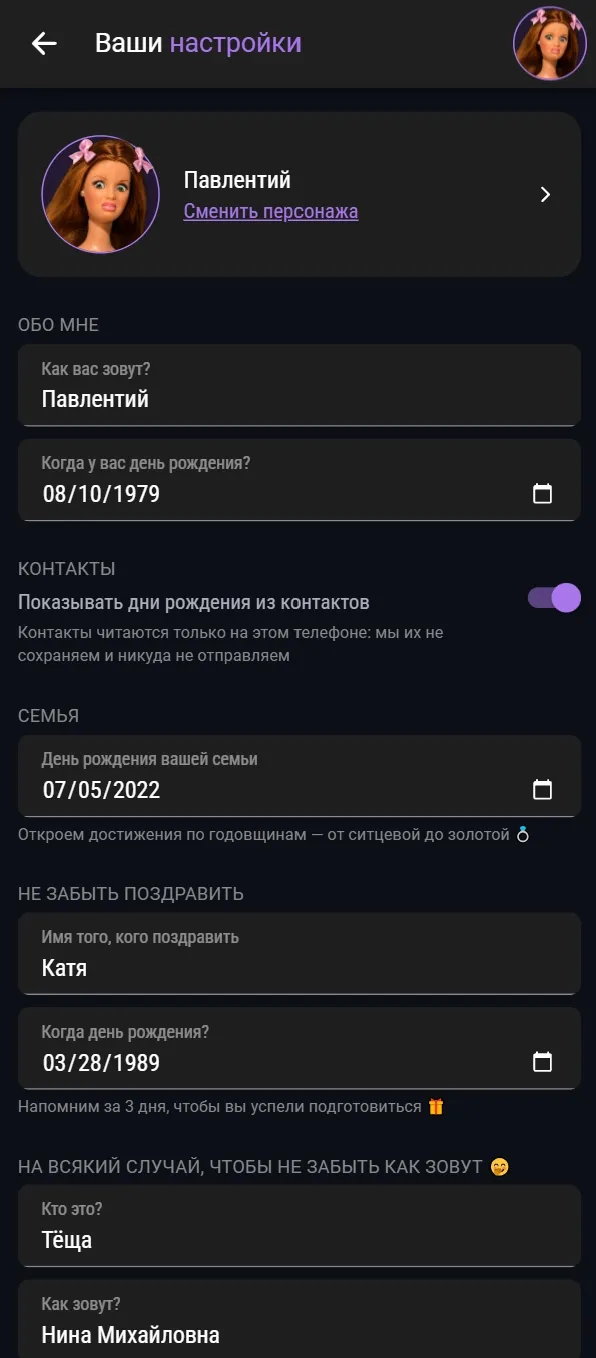
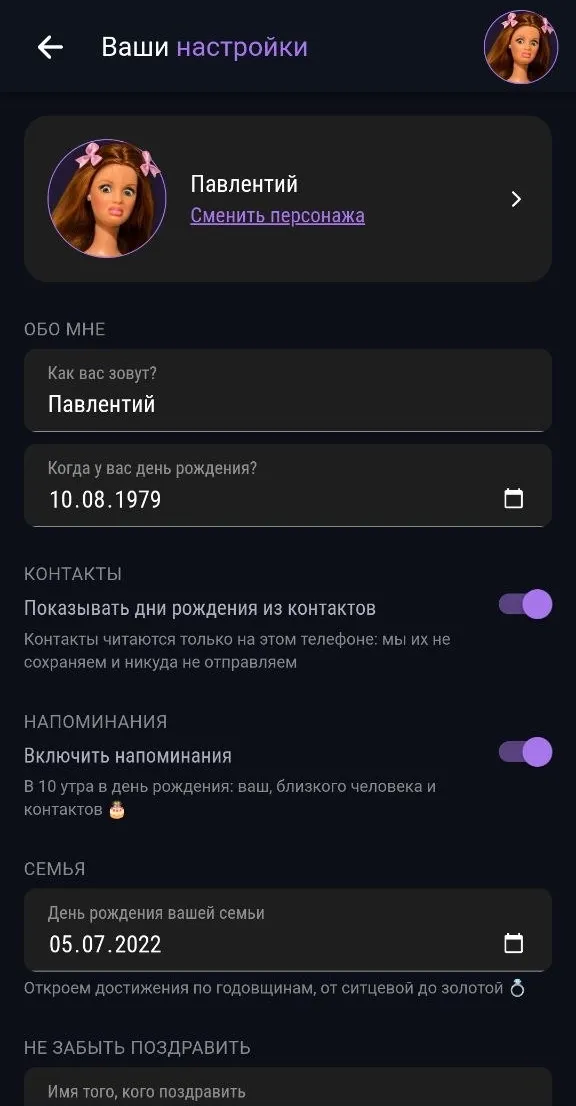
Describe reminders in README + PRIVACY POLICY updates
-- Add a reminders section and update the settings screenshot
-- Replace leftover "ачивки" and "стрики" in feature texts

diff --git a/README.md b/README.md
@@ -4,7 +4,7 @@
   # День рождения 🎂
 
 Мобильное приложение о датах жизни.<br />
-Показывает прожитое время и всю жизнь в неделях, выдаёт достижения за годовщины и серии привычек, помогает примерно спланировать день рождения ребёнка и собирает поздравительную открытку, когда нужные слова не придумываются. В свой день рождения приложение поздравляет само, с конфетти и хлопушками, а о дате близкого человека напоминает за три дня. Дни рождения из контактов собирает в один список и в нужный день подсказывает, кого поздравить.<br />
+Показывает прожитое время и всю жизнь в неделях, выдаёт достижения за годовщины и серии привычек, помогает примерно спланировать день рождения ребёнка и собирает поздравительную открытку, когда нужные слова не придумываются. В свой день рождения приложение поздравляет само, с конфетти и хлопушками, а о дате близкого человека напоминает за три дня. Дни рождения из контактов собирает в один список и в нужный день подсказывает, кого поздравить. А если включить напоминания, в день рождения придёт уведомление, даже когда приложение закрыто.<br />
 Всё считается на устройстве, без регистрации и интернета. Рекламы и платных функций нет.
 
 </div>
@@ -23,7 +23,7 @@
     <td width="50%" align="center">
       <img src="design/screen-life-progress.webp" alt="Жизненный прогресс" width="250" /><br />
       <b>Жизненный прогресс</b><br />
-      Сетка недель жизни, живой счётчик и ачивки прямо на клетках
+      Сетка недель жизни, живой счётчик и достижения прямо на клетках
     </td>
   </tr>
   <tr>
@@ -83,7 +83,7 @@
     <td width="50%" align="center">
       <img src="design/screen-personalData.webp" alt="Настройки" width="250" /><br />
       <b>Настройки</b><br />
-      Персонаж, даты, тумблер контактов и шпаргалка «кто это»
+      Персонаж, даты, тумблеры контактов и напоминаний, шпаргалка «кто это»
     </td>
   </tr>
   <tr>
@@ -134,6 +134,14 @@
 - Если дат рождения в контактах нет, страница подскажет, как их добавить
 - Контакты читаются только на телефоне: приложение их не сохраняет и никуда не отправляет. Если отозвать доступ в настройках телефона, функция выключится сама
 
+### 🔔 Напоминания
+- Уведомление в 10 утра в день рождения: ваш, близкого человека и контактов, если включены дни рождения из контактов
+- Включается одним переключателем в профиле. Главная сама предложит функцию, а разрешение на уведомления спросит только по нажатию кнопки
+- Если в один день празднуют несколько человек, приходит одно уведомление со всеми именами
+- Нажатие на уведомление ведёт туда, где удобно поздравить: в открытку с вписанным именем, в список контактов или на главную
+- Работает без интернета и при закрытом приложении: расписание хранится на телефоне и обновляется при каждом запуске
+- Если отозвать разрешение в настройках телефона, напоминания выключатся сами
+
 ### 🎁 Подарочные открытки
 - Генератор поздравлений для другого человека: четыре шаблона и два пула кусочков, это миллионы комбинаций
 - Имя получателя необязательно: без него у шаблона своя формулировка заголовка, а не обрезанная
@@ -148,14 +156,14 @@
 
 ### 🏆 Достижения
 - Семь групп в табах: возраст, знаменитости, борода, диета, спорт, свадьба и особые
-- Стрики привычек идут параллельно: у каждого свой запуск, сброс и ручной ввод даты начала, если привычка появилась раньше приложения
+- Серии привычек идут параллельно: у каждого свой запуск, сброс и ручной ввод даты начала, если привычка появилась раньше приложения
 - У каждой привычки свой личный рекорд, а после сброса видна и длина прошлой серии
 - Достижения за прожитые в браке годы
 - Особые достижения не привязаны ко времени: одни находят вас сами, другие прячутся. Во вкладке видны только найденные
 - Прогресс-бар до следующего достижения и счётчик пройденных дней внутри группы
 - Пять уровней редкости со своей рамкой и иконкой: обычное, редкое, эпичное, легендарное, мифическое
 - Карточка достижения открывается модалкой, ей можно поделиться картинкой
-- Последнее полученное достижение видно на главной и на странице ачивок
+- Последнее полученное достижение видно на главной и на странице достижений
 - В `jsons/` лежат заготовки под будущие группы: игры, технологии и дни рождения. К расчёту они пока не подключены
 
 ### 👶 Планирование зачатия и рождения
@@ -211,6 +219,7 @@
 | Шаринг        | Capacitor Share + Filesystem, html-to-image |
 | Внешние ссылки | Capacitor Browser                       |
 | Контакты      | @capgo/capacitor-contacts                |
+| Уведомления   | Capacitor Local Notifications            |
 | Тесты         | Vitest (unit) + Cypress (e2e)            |
 
 ---
@@ -276,7 +285,7 @@ npm run build
 
 ```
 src/
-├── api/              # Работа с данными: праздники, именины, зодиак, ачивки, стрики, контакты
+├── api/              # Работа с данными: праздники, именины, зодиак, ачивки, стрики, контакты, напоминания
 ├── assets/           # Шрифты, глобальные стили, изображения
 ├── components/
 │   ├── Achievement/  # Карточки, тултип, плашка редкости и изображение достижения
@@ -288,7 +297,7 @@ src/
 │   ├── Modals/       # Поздравление с днём рождения и карточка достижения
 │   ├── Ui/           # Базовые элементы (Input, DayCard, ProgressBar)
 │   └── Widgets/      # Блоки страниц: PageTitle, ArtButton, LifeTime, TipInfo...
-├── composables/      # Утилиты: даты, склонения, картинки ачивок, аватарки, шаринг, тумблер контактов
+├── composables/      # Утилиты: даты, склонения, картинки ачивок, аватарки, шаринг, тумблеры контактов и напоминаний
 ├── jsons/            # Датасеты: ачивки, поздравления, праздники, именины, зодиак, знаменитости
 ├── router/           # Маршруты приложения
 ├── store/            # Глобальный стор, реактивная текущая дата и дни рождения из контактов
@@ -321,6 +330,7 @@ src/
 - **`store/contactsStore.ts`** — дни рождения из контактов. Живут только в памяти: на диск не пишутся и никуда не отправляются. Сохраняются лишь флаг включения, отметки «Уже поздравили» (id контакта и дата) и выбранные персонажи (id, хеш имени и имя файла).
 - **`api/getContactsBirthdays.ts`** — чтение контактов. Книга целиком читается при запуске, при включении функции и при входе в раздел. При возврате в приложение проверяется только разрешение, потому что полное чтение дорогое.
 - **`api/contactAvatars.ts`** — аватарки контактов. Показываются, только если совпали id и хеш имени. После каждой загрузки контактов записи сверяются: переименованный контакт или контакт с новым id сохраняет аватарку, если второй ключ указывает на него однозначно.
+- **`api/birthdayReminders.ts`** — напоминания. Уведомления ставятся на год вперёд, по одному на день с именинниками, и пересобираются при запуске и при изменении дат или контактов. Точные будильники не нужны: `SCHEDULE_EXACT_ALARM` и `WAKE_LOCK` от плагина убраны из манифеста, а `isExactNotification: false` не даёт плагину открывать экран «Будильники и напоминания».
 
 ---
 ## 💻 Социальные сети

diff --git a/PRIVACY.md b/PRIVACY.md
@@ -1,6 +1,6 @@
 # Политика конфиденциальности приложения «День рождения»
 
-Последнее обновление: 7 октября 2026 года
+Последнее обновление: 15 октября 2026 года
 
 Приложение «День рождения» (ru.kliukin.birthdaydate) работает без регистрации и без интернета. У приложения нет сервера, рекламы и аналитики, поэтому разработчик не получает данных пользователей.
 
@@ -15,13 +15,22 @@
 Приложение может показывать дни рождения из телефонной книги. Эта функция необязательная: разрешение READ_CONTACTS запрашивается, только когда вы сами её включаете.
 
 - Читаются только имя, дата рождения и внутренний идентификатор контакта. Другие поля не запрашиваются, контакты не изменяются.
-- Контакты обрабатываются только на устройстве и хранятся в памяти, пока приложение открыто. Они не записываются в хранилище приложения и никуда не отправляются.
+- Контакты обрабатываются только на устройстве и хранятся в памяти, пока приложение открыто. Они никуда не отправляются и не записываются в хранилище приложения. Единственное исключение: включённые напоминания, о них ниже.
 - Сохраняются только положение переключателя, отметки «Уже поздравили» (идентификатор контакта и дата) и выбранные для контактов персонажи (идентификатор контакта, короткий хеш имени и имя файла картинки).
 - Выключить функцию можно переключателем в профиле. Если отозвать разрешение в настройках телефона, функция выключится сама.
 
+## Напоминания
+
+Приложение может напоминать уведомлением о днях рождения: вашем, близкого человека и контактов, если включены дни рождения из контактов. Функция необязательная: разрешение на уведомления (POST_NOTIFICATIONS) запрашивается, только когда вы сами включаете напоминания.
+
+- Уведомления создаёт само приложение на устройстве, без сервера и push-сервисов. Интернет для них не нужен.
+- Чтобы напоминание пришло и при закрытом приложении, оно ставится в расписание заранее, на год вперёд. В расписании хранятся дата и текст каждого уведомления, а в тексте указаны имена именинников. Расписание хранится в данных приложения на устройстве и никуда не отправляется.
+- Разрешение RECEIVE_BOOT_COMPLETED нужно, чтобы восстановить расписание после перезагрузки телефона.
+- Если выключить напоминания в профиле, расписание удаляется. Если отозвать разрешение в настройках телефона, напоминания выключатся при следующем открытии приложения.
+
 ## Резервное копирование
 
-Если на телефоне включено резервное копирование Android, система может сохранить данные приложения в резервную копию вашего аккаунта. Этим управляет Android, у разработчика доступа к копии нет. Имена и даты рождения из контактов в копию не попадают, потому что приложение их не сохраняет.
+Если на телефоне включено резервное копирование Android, система может сохранить данные приложения в резервную копию вашего аккаунта. Этим управляет Android, у разработчика доступа к копии нет. Имена и даты рождения из контактов приложение не сохраняет, поэтому в копию они не попадают. Если включены напоминания, в копию может попасть их расписание с именами ближайших именинников.
 
 ## Внешние сервисы
 
